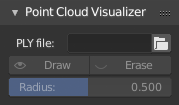
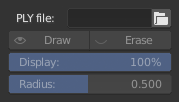
updated readme

diff --git a/README.md b/README.md
@@ -20,7 +20,7 @@
 
 Display colored point cloud PLY in Blender's 3d viewport. Works with binary point cloud PLY files with 'x, y, z, red, green, blue' vertex values. All other values are ignored. Color values must be in 0-255 range.
 
-* Usage: Install and activate addon in a usual way. Add any object to scene. Go to 3d View Sidebar (N) > 'Point Cloud Visualizer' panel, click file browser icon, select ply file, click 'Load PLY'. Click 'Draw' button to display point cloud, 'Erase' to hide point cloud. Adjust point size with 'Radius'.
+* Usage: Install and activate addon in a usual way. Add any object to scene. Go to 3d View Sidebar (N) > 'Point Cloud Visualizer' panel, click file browser icon, select ply file, click 'Load PLY'. Click 'Draw' button to display point cloud, 'Erase' to hide point cloud. Adjust percentage of displayed points with 'Display' and point size with 'Radius'.
 * Transforming parent object transforms point cloud as well.
 * Huge speed improvements compared to 2.7x version.
 
@@ -30,6 +30,7 @@ Display colored point cloud PLY in Blender's 3d viewport. Works with binary poin
 
 changelog:
 
+* 0.4.5 added 'Display' percentage, better error handling during .ply loading
 * 0.4.0 almost complete rewrite for blender 2.80, performance improvements using shaders, simplified ui
 * 0.3.0 new ply loader, can be used with any binary ply file with vertex coordinates and colors
 * 0.2.0 display percentage
